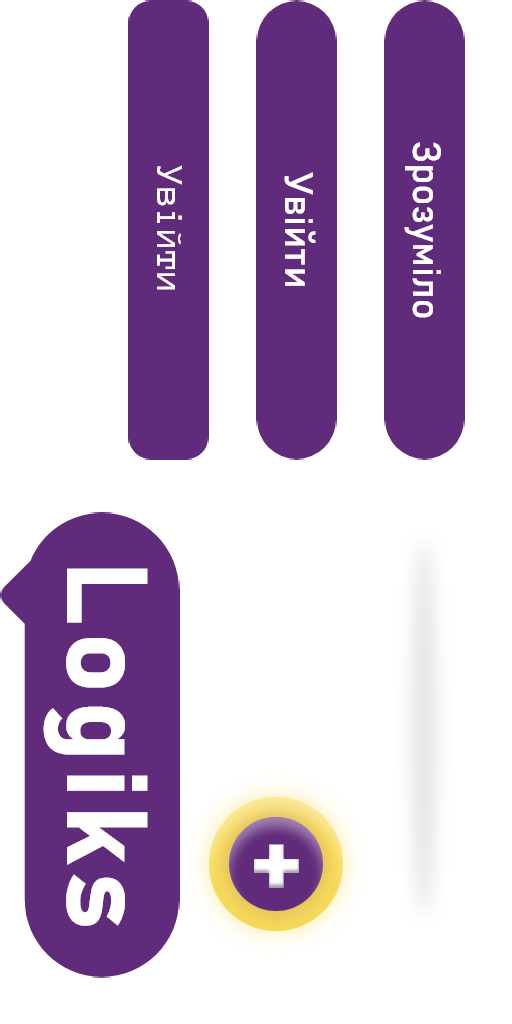
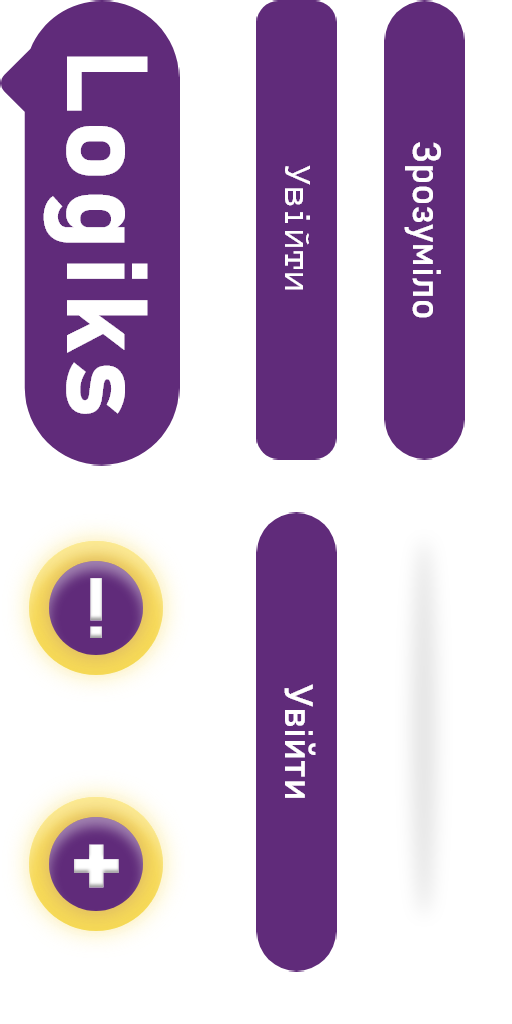
test

diff --git a/scripts/c3runtime.js b/scripts/c3runtime.js
@@ -1326,16 +1326,6 @@ self.C3_ExpressionFuncs = [
 		() => "100%",
 		() => "border",
 		() => "0px",
-		p => {
-			const n0 = p._GetNode(0);
-			const v1 = p._GetNode(1).GetVar();
-			return () => n0.ExpObject(6, v1.GetValue());
-		},
-		p => {
-			const n0 = p._GetNode(0);
-			const v1 = p._GetNode(1).GetVar();
-			return () => (and("+", n0.ExpObject(7, v1.GetValue())) + " логік");
-		},
 		() => "Геймдизайн",
 		() => 1,
 		() => "Python",
@@ -1346,9 +1336,25 @@ self.C3_ExpressionFuncs = [
 		() => 13158600,
 		() => 0.05,
 		() => 16777215,
+		p => {
+			const n0 = p._GetNode(0);
+			const v1 = p._GetNode(1).GetVar();
+			return () => n0.ExpObject(6, v1.GetValue());
+		},
+		p => {
+			const n0 = p._GetNode(0);
+			const v1 = p._GetNode(1).GetVar();
+			return () => (and("+", n0.ExpObject(7, v1.GetValue())) + " логік");
+		},
 		() => 70,
 		() => 0.1,
 		() => 100,
+		() => "Інформація",
+		p => {
+			const n0 = p._GetNode(0);
+			const v1 = p._GetNode(1).GetVar();
+			return () => n0.ExpObject(8, v1.GetValue());
+		},
 		() => -1,
 		() => "border-radius",
 		() => "30px",

diff --git a/scripts/objRefTable.js b/scripts/objRefTable.js
@@ -31,7 +31,6 @@ self.C3_GetObjectRefTable = function () {
 		C3.Plugins.Arr.Exps.At,
 		C3.Plugins.Particles.Acts.Destroy,
 		C3.Plugins.TextBox.Acts.SetCSSStyle,
-		C3.Plugins.TextBox.Acts.SetText,
 		C3.Plugins.Sprite.Acts.SetAnimFrame,
 		C3.Plugins.TextBox.Acts.SetBlur,
 		C3.Plugins.System.Cnds.CompareBoolVar,
@@ -42,6 +41,7 @@ self.C3_GetObjectRefTable = function () {
 		C3.Plugins.Particles.Acts.MoveToBottom,
 		C3.Plugins.Sprite.Acts.SetDefaultColor,
 		C3.Plugins.System.Acts.Wait,
+		C3.Plugins.TextBox.Acts.SetText,
 		C3.Plugins.Sprite.Acts.SetOpacity,
 		C3.Plugins.System.Acts.SetBoolVar,
 		C3.Plugins.System.Acts.SetVar,
@@ -103,6 +103,7 @@ self.C3_JsPropNameTable = [
 	{logiks_plus: 0},
 	{question: 0},
 	{Keyboard: 0},
+	{info: 0},
 	{i: 0}
 ];
 
@@ -137,5 +138,6 @@ self.InstanceType = {
 	ok: class extends self.ISpriteInstance {},
 	logiks_plus: class extends self.ITextInstance {},
 	question: class extends self.ITextInputInstance {},
-	Keyboard: class extends self.IInstance {}
+	Keyboard: class extends self.IInstance {},
+	info: class extends self.ISpriteInstance {}
 }
